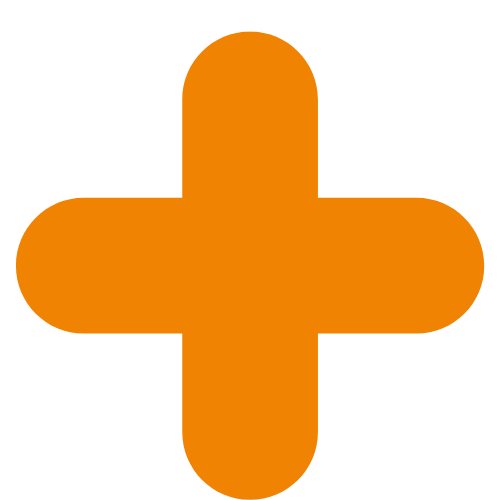
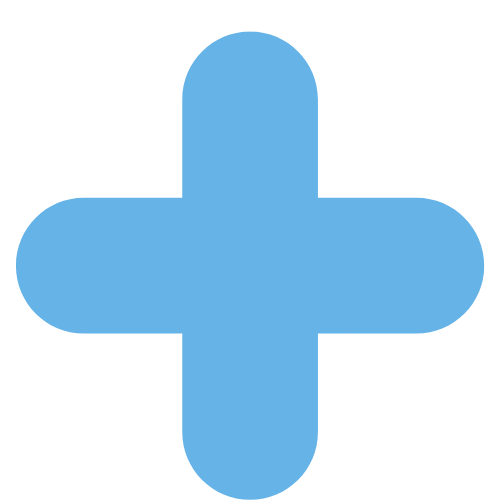
MInor Fix

diff --git a/components/NavBar.jsx b/components/NavBar.jsx
@@ -1,4 +1,4 @@
-import { useState, useContext } from "react";
+import { useState, useContext, useEffect } from "react";
 import { ConnectButton } from "@rainbow-me/rainbowkit";
 import Image from "next/image";
 import Link from "next/link";
@@ -21,7 +21,7 @@ const NavBar = () => {
     },
   ];
 
-  const [active, setActive] = useState(2);
+  const [active, setActive] = useState();
   const [open, setOpen] = useState(false);
   const [openModel, setOpenModel] = useState(false);
 
@@ -30,13 +30,23 @@ const NavBar = () => {
     useContext(ChatAppContext);
   const { disconnect } = useDisconnect();
 
+  //currentPage
+  useEffect(() => {
+    const currentPage = window.location.pathname;
+    if (currentPage == "/") {
+      setActive(2);
+    } else if (currentPage == "/alluser") {
+      setActive(1);
+    }
+  }, []);
+
   return (
     <div className="sm:relative sm:w-4/5 sm:mx-auto text-white w-11/12 m-4 mx-auto">
       <div className="flex justify-between sm:items-center sm:gap-8 sm:px-4  sm:py-4 gap-4 py-2 px-2">
         <div className="flex">
-          <div className="sm:block">
+          <div className="sm:block" onClick={() => setActive(2)}>
             <Link href="/">
-              <Image src={images.logo} alt="logo" width={50} height={50} />
+              <Image src={images.logo} alt="logo" width={100} height={100} />
             </Link>
           </div>
         </div>
@@ -49,7 +59,7 @@ const NavBar = () => {
                 key={i + 1}
                 className={`${
                   active == i + 1
-                    ? "color-[#F18303] border-b-2 border-solid border-[#F18303] pb-2"
+                    ? "color-[#66b3e8] border-b-2 border-solid border-[#66b3e8] pb-2"
                     : ""
                 }`}
               >
@@ -68,7 +78,7 @@ const NavBar = () => {
                   // click all div
                   className={`${"mt-8 cursor-pointer font-bold text-3xl"} ${
                     active == i + 1
-                      ? "color-[#F18303] border-b-2 border-solid border-[#F18303] pb-2 "
+                      ? "color-[#66b3e8] border-b-2 border-solid border-[#66b3e8] pb-2 "
                       : ""
                   }`}
                 >
@@ -89,12 +99,12 @@ const NavBar = () => {
           )}
 
           {/* Connect Wallet */}
-          <div className="flex justify-self-end">
+          <div className="flex justify-self-end pl-2">
             {!isConnected ? (
               <ConnectButton />
             ) : userName ? (
               <button
-                className="bg-[#000000]/25 p-4 border-none rounded-lg font-bold text-[#F18303] cursor-pointer flex text-center gap-2 hover:bg-[#c2410c] hover:text-white"
+                className="bg-black/25 p-4 border-none rounded-lg font-bold text-[#66b3e8] cursor-pointer flex text-center gap-2 hover:bg-[#30556e] hover:text-white"
                 onClick={() => {
                   disconnect();
                 }}
@@ -111,7 +121,7 @@ const NavBar = () => {
               </button>
             ) : (
               <button
-                className="bg-[#000000]/25 p-4 border-none rounded-lg font-bold text-[#F18303] cursor-pointer flex text-center gap-2"
+                className="bg-black/25 p-4 border-none rounded-lg font-bold text-[#66b3e8] cursor-pointer flex text-center gap-2 hover:bg-[#30556e] hover:text-white"
                 onClick={() => setOpenModel(true)}
               >
                 {""}

diff --git a/components/Model.jsx b/components/Model.jsx
@@ -19,7 +19,6 @@ const Model = ({
   const [accountAddress, setAccountAddress] = useState("");
 
   const { loading } = useContext(ChatAppContext);
-  console.log(accountAddress);
 
   return (
     <div className="w-[%90] m-4 sm:w-[%80] sm:m-16">
@@ -29,12 +28,12 @@ const Model = ({
         </div>
         <div>
           <div className="flex flex-col gap-4 sm:mx-4">
-            <h1 className="text-sm sm:text-5xl text-[#F18303] ">
+            <h1 className="text-sm sm:text-5xl text-[#66b3e8] ">
               {title} <br />
               <span className="text-4xl sm:block sm:text-7xl">{head}</span>
             </h1>
             <p>{info}</p>
-            <small className="text-xl text-[#F18303]">{smallInfo}</small>
+            <small className="text-xl text-[#66b3e8]">{smallInfo}</small>
           </div>
           {loading == true ? (
             <Loader />
@@ -48,7 +47,7 @@ const Model = ({
                   height={30}
                 />
                 <input
-                  className="w-[100%] bg-transparent text-[#F18303] outline-none border-none"
+                  className="w-[100%] bg-transparent text-white outline-none border-none"
                   type="text"
                   placeholder="Enter Name.."
                   onChange={(e) => setName(e.target.value)}
@@ -57,7 +56,7 @@ const Model = ({
               <div className="flex items-center gap-4 p-4 rounded-lg sm:m-4 my-4 bg-black/25">
                 <Image src={images.account} alt="user" width={30} height={30} />
                 <input
-                  className="w-[100%] bg-transparent text-[#F18303] outline-none border-none"
+                  className="w-[100%] bg-transparent text-white outline-none border-none"
                   type="text"
                   placeholder={address || "Enter address.."}
                   value={address}
@@ -67,7 +66,7 @@ const Model = ({
 
               <div className="grid grid-cols-1 z-50 sm:grid-cols-2 gap-4 sm:mx-4">
                 <button
-                  className="outline-none border-none text-xl font-bold text-[#F18303] bg-black/25 p-4 border-2 rounded-lg flex items-center justify-center gap-4 cursor-pointer"
+                  className="outline-none border-none text-xl font-bold text-[#66b3e8] bg-black/25 p-4 border-2 rounded-lg flex items-center justify-center gap-4 cursor-pointer hover:bg-[#30556e] hover:text-white"
                   onClick={() => functionName({ name, accountAddress })}
                 >
                   {""}
@@ -77,7 +76,7 @@ const Model = ({
                 </button>
 
                 <button
-                  className="outline-none border-none text-xl font-bold text-[#F18303] bg-black/25 p-4 border-2 rounded-lg flex items-center justify-center gap-4 cursor-pointer"
+                  className="outline-none border-none text-xl font-bold text-[#66b3e8] bg-black/25 p-4 border-2 rounded-lg flex items-center justify-center gap-4 cursor-pointer hover:bg-[#30556e] hover:text-white"
                   onClick={() => openBox(false)}
                 >
                   {""}

diff --git a/components/Filter.jsx b/components/Filter.jsx
@@ -16,7 +16,7 @@ const Filter = () => {
           <div className="w-full flex items-center gap-4 rounded-xl bg-black/25 text-orange-600 px-4">
             <Image src={images.search} alt="image" width={20} height={20} />
             <input
-              className="bg-transparent p-4 text-orange-600 w-scren sm:w-80 outline-0 border-0"
+              className="bg-transparent p-4 text-white sm:w-80 outline-0 border-0"
               type="text"
               placeholder="Search.."
             />
@@ -24,12 +24,12 @@ const Filter = () => {
         </div>
         <div className="flex gap-4">
           <button
-            className="text-xs bg-black/25 text-orange-600 rounded-xl font-bold flex items-center gap-2 py-4 px-4 outline-0 border-0 hover:bg-orange-700 hover:text-white"
+            className="text-sm bg-black/25 text-[#66b3e8] rounded-xl font-bold flex items-center gap-2 py-4 px-4 outline-0 border-0 hover:bg-[#30556e] hover:text-white"
             onClick={() => setAddFriend(true)}
             disabled={ userName ? false : true }
           >
-            <Image src={images.user} alt="clear" width={20} height={20} />
-            ADD FRIEND
+            <Image src={images.user} alt="users" width={20} height={20} />
+            Add Friends
           </button>
         </div>
       </div>

diff --git a/components/friend/Chat.jsx b/components/friend/Chat.jsx
@@ -22,9 +22,6 @@ const Chat = ({
     address: "",
   });
 
-  console.log("chatData => ", chatData);
-  console.log("message => ", message);
-
   const router = useRouter();
 
   useEffect(() => {
@@ -93,7 +90,7 @@ const Chat = ({
                   </div>
                 )}
                 <p
-                  className="text-xs p-4 relative bg-[#f182035b] rounded-t-lg rounded-bl-lg"
+                  className="text-xs p-4 relative bg-[#66b3e8]/40 rounded-t-lg rounded-bl-lg"
                   key={i + 1}
                 >
                   {message.msg}
@@ -110,7 +107,7 @@ const Chat = ({
             <div className="flex items-center gap-4 mt-4">
               <Image src={images.smile} alt="smile" width={50} height={50} />
               <input
-                className="w-full p-4 text-white rounded-lg bg-[#f182035b] outline-0 border-0"
+                className="w-full p-4 text-white rounded-lg bg-[#66b3e8]/25 outline-0 border-0"
                 type="text"
                 placeholder="Type a message"
                 onChange={(e) => setMessage(e.target.value)}

diff --git a/components/UserCard.jsx b/components/UserCard.jsx
@@ -20,7 +20,7 @@ const UserCard = ({ users, i, addFriends }) => {
           <h3 className="mb-2">{users.name}</h3>
           <p className="mb-2">{users.accountAddress.slice(0, 25)}..</p>
           <button
-            className="bg-black/25 text-[#F18303] w-6/12 p-4 border-0 rounded-lg text-base cursor-pointer"
+            className="bg-black/25 text-[#66b3e8] w-6/12 p-4 border-0 rounded-lg text-base cursor-pointer hover:bg-[#30556e] hover:text-white"
             onClick={() =>
               addFriends({
                 name: users.name,
@@ -33,7 +33,7 @@ const UserCard = ({ users, i, addFriends }) => {
         </div>
       </div>
 
-      <small className="absolute w-8 h-8 rounded-[50%] bg-[#F18303] text-white font-bold text-base top-4 right-4 align-middle flex items-center justify-center">
+      <small className="absolute w-8 h-8 rounded-[50%] bg-[#66b3e8] text-white font-bold text-base top-4 right-4 align-middle flex items-center justify-center">
         {i + 1}
       </small>
     </div>

diff --git a/pages/_app.jsx b/pages/_app.jsx
@@ -1,6 +1,10 @@
 import "../styles/globals.css";
 import "@rainbow-me/rainbowkit/styles.css";
-import { getDefaultWallets, RainbowKitProvider } from "@rainbow-me/rainbowkit";
+import {
+  getDefaultWallets,
+  RainbowKitProvider,
+  darkTheme,
+} from "@rainbow-me/rainbowkit";
 import { configureChains, createClient, WagmiConfig } from "wagmi";
 import { mainnet, goerli } from "wagmi/chains";
 import { alchemyProvider } from "wagmi/providers/alchemy";
@@ -31,7 +35,7 @@ const wagmiClient = createClient({
 export default function App({ Component, pageProps }) {
   return (
     <WagmiConfig client={wagmiClient}>
-      <RainbowKitProvider chains={chains}>
+      <RainbowKitProvider chains={chains} theme={darkTheme()}>
         <ChatAppProvider>
           <NavBar />
           <Component {...pageProps} />

diff --git a/components/friend/Card.jsx b/components/friend/Card.jsx
@@ -5,8 +5,6 @@ import Link from "next/link";
 import images from "../../public/assets";
 
 const Card = ({ readMessage, friends, i, readUser }) => {
-  console.log(friends);
-
   return (
     <Link
       href={{
@@ -17,7 +15,7 @@ const Card = ({ readMessage, friends, i, readUser }) => {
       <div
         onClick={() => (readMessage(friends.pubkey), readUser(friends.pubkey))}
       >
-        <div className="flex items-center gap-4 cursor-pointer p-4 sm:px-8 border-b border-[#f1820342] hover:bg-[#f1820342] rounded-lg overflow-auto">
+        <div className="flex items-center gap-4 cursor-pointer p-4 sm:px-8 border-b border-[#66b3e8] hover:bg-[#66b3e8]/50 hover:text-white overflow-auto">
           <div className="rounded-lg">
             <Image
               src={images.accountName}

diff --git a/public/assets/index.js b/public/assets/index.js
@@ -16,7 +16,7 @@ import account from "./account.png";
 import username from "./username.png";
 import friends from "./friends.png";
 import friends2 from "./friends2.png";
-import accountName from "./acountName.png";
+import accountName from "./accountName.png";
 import dot from "./dot.png";
 import loader from "./loader.gif";
 import image1 from "./img1.gif";
